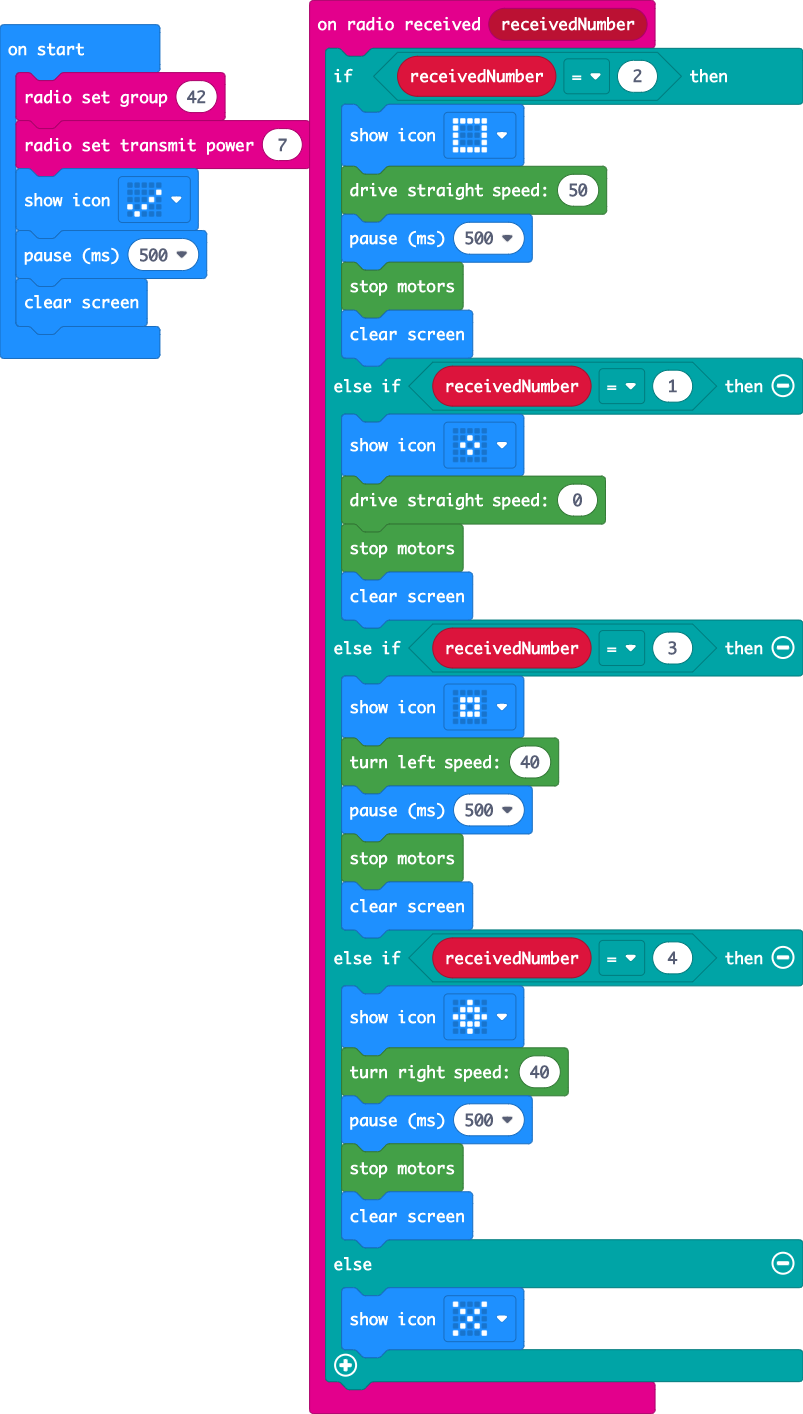
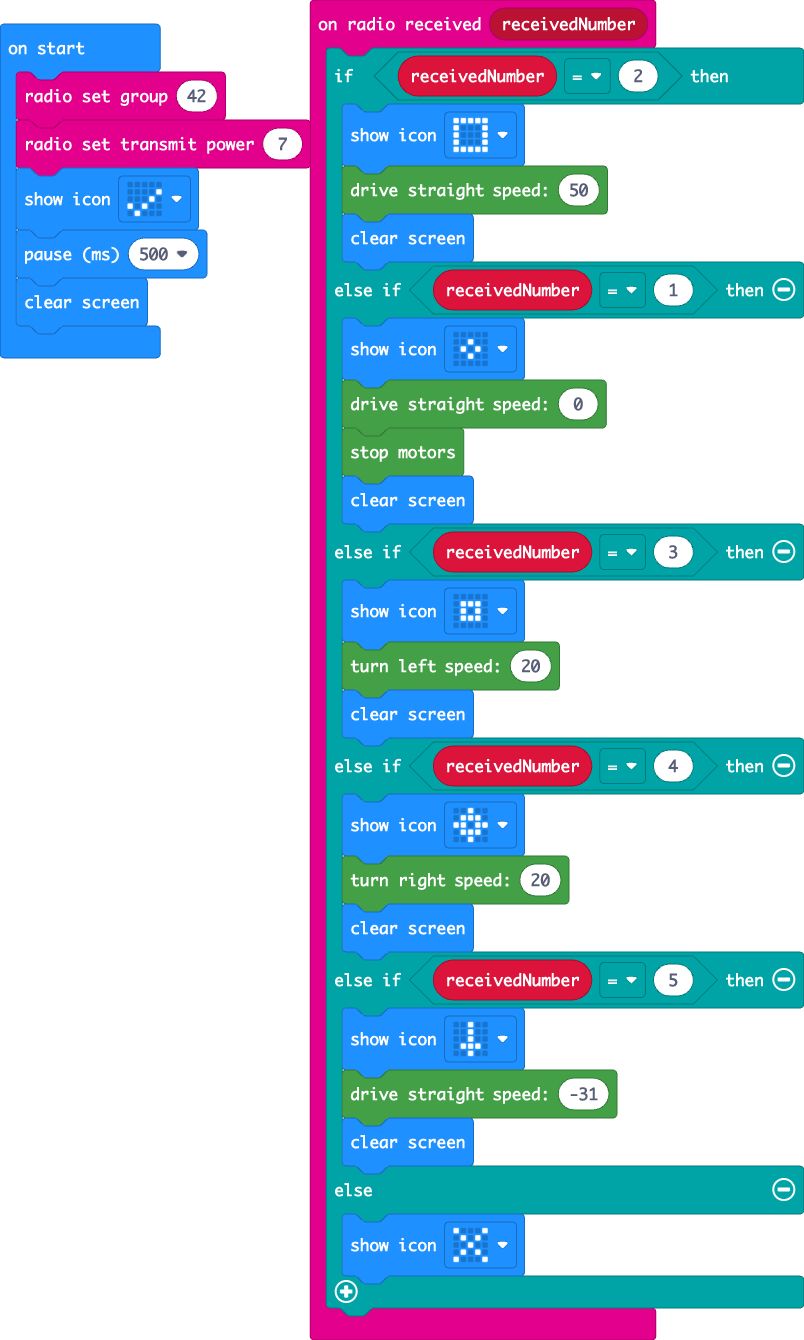
Update main.blocks, main.ts, main.py

diff --git a/main.ts b/main.ts
@@ -2,8 +2,6 @@ radio.onReceivedNumber(function (receivedNumber) {
     if (receivedNumber == 2) {
         basic.showIcon(IconNames.Square)
         motion.driveStraight(50)
-        basic.pause(500)
-        motion.stop()
         basic.clearScreen()
     } else if (receivedNumber == 1) {
         basic.showIcon(IconNames.SmallDiamond)
@@ -12,15 +10,15 @@ radio.onReceivedNumber(function (receivedNumber) {
         basic.clearScreen()
     } else if (receivedNumber == 3) {
         basic.showIcon(IconNames.SmallSquare)
-        motion.turnLeft(40)
-        basic.pause(500)
-        motion.stop()
+        motion.turnLeft(20)
         basic.clearScreen()
     } else if (receivedNumber == 4) {
         basic.showIcon(IconNames.Target)
-        motion.turnRight(40)
-        basic.pause(500)
-        motion.stop()
+        motion.turnRight(20)
+        basic.clearScreen()
+    } else if (receivedNumber == 5) {
+        basic.showIcon(IconNames.Sword)
+        motion.driveStraight(-31)
         basic.clearScreen()
     } else {
         basic.showIcon(IconNames.No)

diff --git a/main.py b/main.py
@@ -1,24 +1,31 @@
 def on_received_number(receivedNumber):
     if receivedNumber == 2:
+        basic.show_icon(IconNames.SQUARE)
         motion.drive_straight(50)
-        basic.pause(100)
-        motion.stop()
+        basic.clear_screen()
     elif receivedNumber == 1:
+        basic.show_icon(IconNames.SMALL_DIAMOND)
         motion.drive_straight(0)
         motion.stop()
+        basic.clear_screen()
     elif receivedNumber == 3:
-        motion.turn_left(40)
-        basic.pause(100)
-        motion.stop()
+        basic.show_icon(IconNames.SMALL_SQUARE)
+        motion.turn_left(20)
+        basic.clear_screen()
     elif receivedNumber == 4:
-        motion.turn_right(40)
-        basic.pause(100)
-        motion.stop()
+        basic.show_icon(IconNames.TARGET)
+        motion.turn_right(20)
+        basic.clear_screen()
+    elif receivedNumber == 5:
+        basic.show_icon(IconNames.SWORD)
+        motion.drive_straight(-31)
+        basic.clear_screen()
     else:
         basic.show_icon(IconNames.NO)
 radio.on_received_number(on_received_number)
 
 radio.set_group(42)
+radio.set_transmit_power(7)
 basic.show_icon(IconNames.YES)
 basic.pause(500)
 basic.clear_screen()
